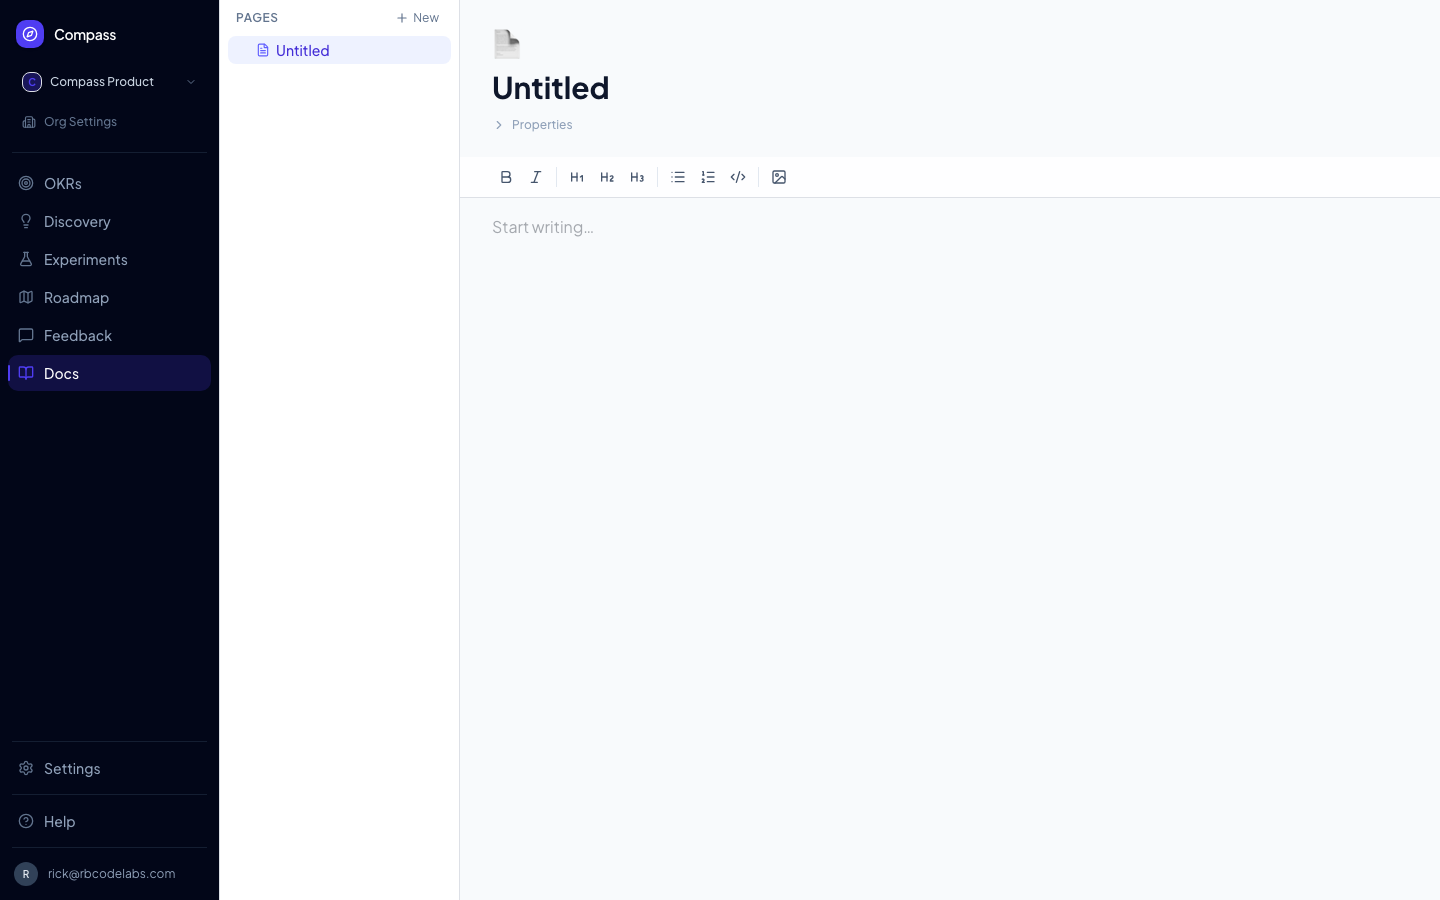
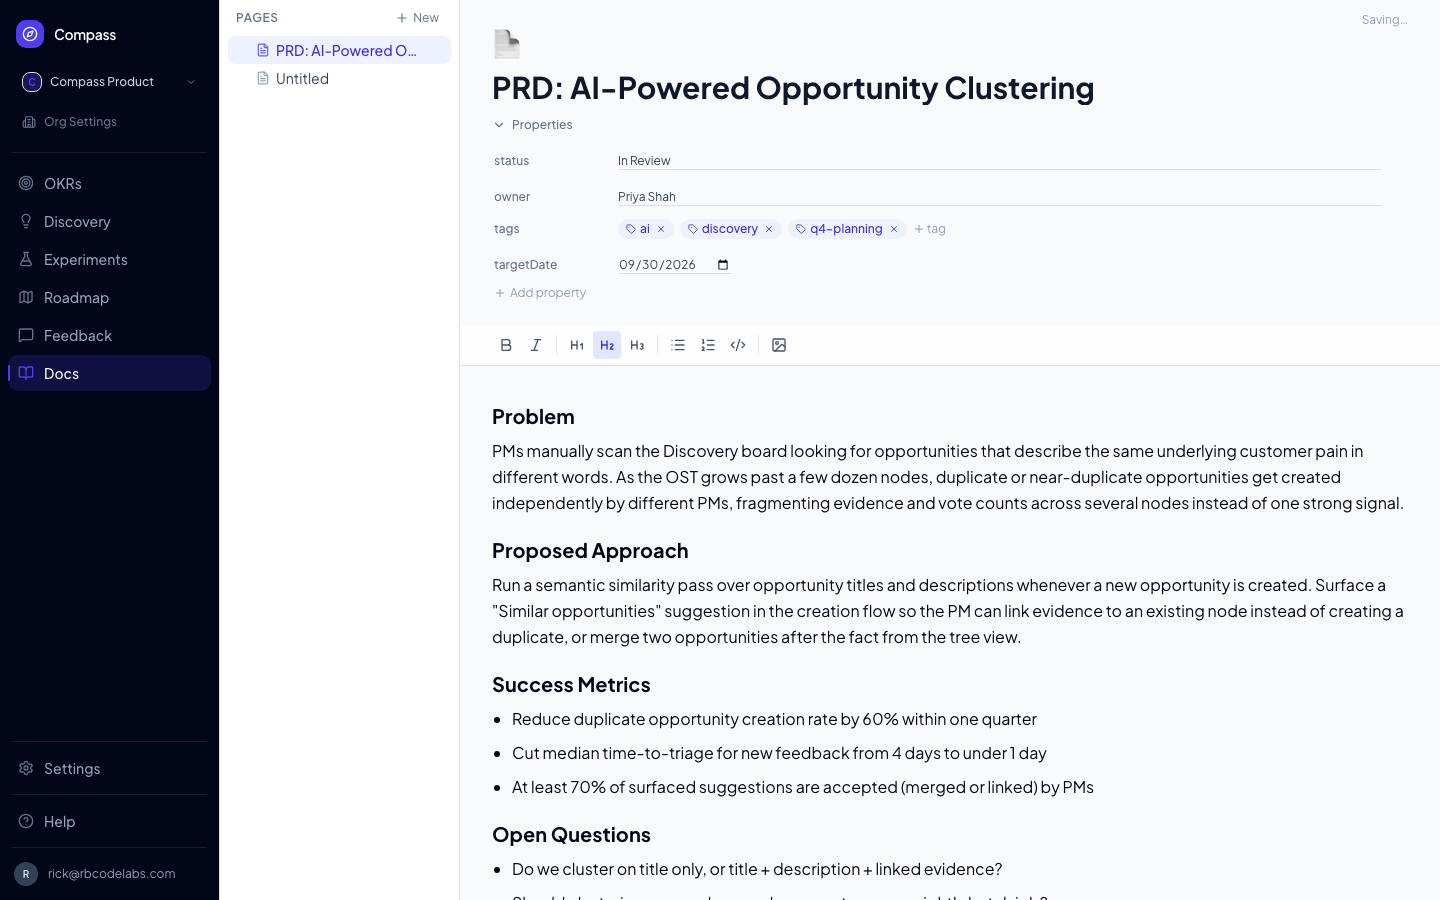
fix(docs): make settings and docs-editor screenshots demonstrate their features
Two regenerated docs screenshots technically passed capture but didn't
actually show what they claim to document:

- settings.png never scrolled to the Danger Zone section, so the
  DeleteWorkspacePanel it's meant to demonstrate was never visible. Add
  a danger-zone.png capture entry that scrolls to the "Danger Zone"
  heading, mirroring the existing branding.png pattern.

- docs-editor.png showed an empty untitled doc because
  seed-screenshots.ts seeded zero Doc rows, so the docs index redirected
  to a pre-existing blank "Untitled" page. Seed a realistic PRD doc with
  real body content and populated metadata (status, owner, tags,
  targetDate) at sort_order -1 so it wins the "first doc" redirect and
  the Properties panel renders open with real key/value pairs.

diff --git a/seed-screenshots.ts b/seed-screenshots.ts
@@ -299,6 +299,54 @@ async function main() {
   }
   console.log("Feedback:", feedbackDefs.length);
 
+  // ── Docs ──────────────────────────────────────────────────────────────────
+  // sort_order -1 so this doc wins the docs-index "firstDoc" redirect
+  // (orderBy sortOrder asc, createdAt asc) ahead of any pre-existing empty
+  // Untitled docs in this workspace, so /docs opens on real content.
+  const docTitle = "PRD: AI-Powered Opportunity Clustering";
+  const docContent = `## Problem
+
+PMs manually scan the Discovery board looking for opportunities that describe
+the same underlying customer pain in different words. As the OST grows past
+a few dozen nodes, duplicate or near-duplicate opportunities get created
+independently by different PMs, fragmenting evidence and vote counts across
+several nodes instead of one strong signal.
+
+## Proposed Approach
+
+Run a semantic similarity pass over opportunity titles and descriptions
+whenever a new opportunity is created. Surface a "Similar opportunities"
+suggestion in the creation flow so the PM can link evidence to an existing
+node instead of creating a duplicate, or merge two opportunities after the
+fact from the tree view.
+
+## Success Metrics
+
+- Reduce duplicate opportunity creation rate by 60% within one quarter
+- Cut median time-to-triage for new feedback from 4 days to under 1 day
+- At least 70% of surfaced suggestions are accepted (merged or linked) by PMs
+
+## Open Questions
+
+- Do we cluster on title only, or title + description + linked evidence?
+- Should clustering run synchronously on create, or as a nightly batch job?
+`;
+  const docMetadata = {
+    status: "In Review",
+    owner: "Priya Shah",
+    tags: ["ai", "discovery", "q4-planning"],
+    targetDate: "2026-09-30",
+  };
+  const existingDoc = await one(`SELECT id FROM "${S}".docs WHERE workspace_id = $1 AND title = $2`, [ws.id, docTitle]);
+  if (!existingDoc) {
+    await one(
+      `INSERT INTO "${S}".docs (workspace_id, title, content, metadata, sort_order)
+       VALUES ($1,$2,$3,$4,$5) RETURNING id`,
+      [ws.id, docTitle, docContent, JSON.stringify(docMetadata), -1]
+    );
+  }
+  console.log("Docs seeded: 1");
+
   await pool.end();
   console.log("\n✅ Seed complete!");
 }

diff --git a/e2e/screenshots.spec.ts b/e2e/screenshots.spec.ts
@@ -29,6 +29,9 @@ const PAGES = [
   // the initial viewport a plain (fullPage: false) capture would show, so
   // it needs its own entry with an explicit scroll-into-view.
   { file: "branding.png",        url: "/rbcodelabs/compass/settings", scrollToHeading: "Branding" },
+  // Danger Zone (DeleteWorkspacePanel) is the last section on the settings
+  // page, below Branding — same situation branding.png solves above.
+  { file: "danger-zone.png",     url: "/rbcodelabs/compass/settings", scrollToHeading: "Danger Zone" },
 ];
 
 test.describe("docs screenshots", () => {
